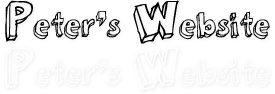
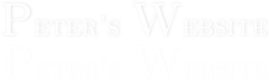
Changed site title again. Also added styling for blog, zi listing

Changed region(s): [[0.4758, 0.0, 0.9814, 0.475], [0.0, 0.0, 0.4461, 0.45]]

diff --git a/themes/skyblue/css/style.css b/themes/skyblue/css/style.css
@@ -5,22 +5,20 @@
   margin:0;
   padding:0;
   position:absolute;
-  top:0;
-  left:15px;
+  top:4px;
+  left:0;
 }
   #site-name a {
-    background:url(../images/title.png) 0 -46px no-repeat;
+    background:url(../images/title.png) 0 -40px no-repeat;
     line-height:normal;
-    height:30px;
     display:block;
     width:275px;
-    height:44px;
+    height:40px;
     text-indent:-1000px;
     overflow:hidden;
   }
   #top-bar #site-name a:hover {
-    background: url(../images/title.png) 0 1px no-repeat;
-    background-color: #fff;
+    background: url(../images/title.png) 0 3px no-repeat;
   }
   
 #top-bar{
@@ -28,6 +26,7 @@
 }
   #top-bar a{
     color:#fff;
+    color:rgba(255,255,255,0.8);
     text-decoration:none;  
   }
     #top-bar .active-trail a,
@@ -47,7 +46,8 @@
   top:17px;
   width:650px;
   font-family: 'NotethisRegular', Georgia, "Times New Roman", Times, serif;
-  font-size:18px;
+  font-size:16px;
+  letter-spacing:0.05em;
   text-shadow: 0 0 3px rgba(0,0,0,0.2);
 }
 #top-bar ul.menu{
@@ -85,7 +85,7 @@
     z-index:3;
     left:0;
     text-align:left;
-    font-size:0.8em;
+    font-size:0.9em;
   }
   #top-bar .expanded ul.menu li {
     display:block;
@@ -435,6 +435,12 @@ body.user-edit #admin-tabs-top {
 }
 div.view div.views-admin-links li a {
   color:#000;
+}
+#admin-tabs-top .messages .krumo-root {
+  color:#333;
+}
+#admin-tabs-top .messages a.krumo-name {
+  color:#404000;
 }
 
 /* Randoms */

diff --git a/themes/skyblue/css/home_blog.css b/themes/skyblue/css/home_blog.css
@@ -1,0 +1,9 @@
+/* 
+ Projects index page
+ */
+h1.title {
+  margin-top:0;
+  font-size:7em;
+  line-height:normal;
+}
+

diff --git a/themes/skyblue/css/home_zi.css b/themes/skyblue/css/home_zi.css
@@ -3,7 +3,7 @@
  */
 h1.title {
   margin-top:15px;
-  font-size:4em;
+  font-size:3em;
   line-height:normal;
 }
 

diff --git a/themes/skyblue/template.php b/themes/skyblue/template.php
@@ -89,6 +89,14 @@ function phptemplate_preprocess_views_view__projects(&$vars) {
   drupal_add_css(path_to_theme() . '/css/home_projects.css', 'theme');
 }
 
+function phptemplate_preprocess_views_view__section_listing(&$vars) {
+  if ($vars['view']->current_display == 'page_1') {
+    drupal_add_css(path_to_theme() . '/css/home_blog.css', 'theme');
+  } elseif ($vars['view']->current_display == 'page_2') {
+    drupal_add_css(path_to_theme() . '/css/home_zi.css', 'theme');
+  }
+}
+
 /**
  * implementation of template_preprocess_book_navigation
  */
